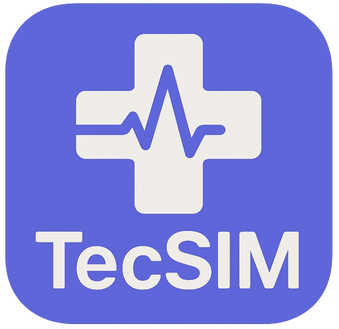
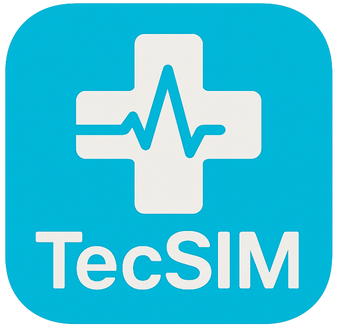
Azul

diff --git a/Mobile/app/screens/Register/Register.jsx b/Mobile/app/screens/Register/Register.jsx
@@ -25,7 +25,7 @@ export default function Login({ navigation }) {
         <Text style={styles.label}>Nome Completo</Text>
         <TextInput
             style={styles.input}
-            placeholder="Antonio Nascimento Barros"
+            placeholder="Ex: Antonio Nascimento Barros"
             placeholderTextColor={"gray"}
             secureTextEntry={!showPassword} // 👈 alterna visibilidade
           />
@@ -108,7 +108,7 @@ export default function Login({ navigation }) {
           <Text style={styles.buttonText}>Criar conta</Text>
         </TouchableOpacity>
 
-        <TouchableOpacity style={styles.subButton} onPress={() => navigation.navigate('Register')}>
+        <TouchableOpacity style={styles.subButton} onPress={() => navigation.replace('Login')}>
           <Text style={styles.text}>Já tem uma conta ?</Text>
           <Text style={styles.EsqueciSenha}>Faça o login</Text>
         </TouchableOpacity>

diff --git a/Mobile/app/screens/AuthWelcome/styles.js b/Mobile/app/screens/AuthWelcome/styles.js
@@ -11,7 +11,7 @@ export const styles = StyleSheet.create({
     justifyContent: 'flex-start',
     alignItems: 'center',
     width: '100%',
-    backgroundColor: '#5f65d9',
+    backgroundColor: '#00acd2',
     opacity: 1,
     zIndex: 20,
   },
@@ -24,6 +24,7 @@ export const styles = StyleSheet.create({
   },
   content: {
     flex: 1,
+    display: "flex",
     alignItems: 'center',
     paddingTop: 20,
   },
@@ -48,14 +49,14 @@ export const styles = StyleSheet.create({
     marginBottom: 20,
   },
   button: {
-    backgroundColor: '#1c1c3c',
+    backgroundColor: '#0097b2',
     paddingVertical: 12,
     paddingHorizontal: 80,
     borderRadius: 20,
     marginTop: 40,
   },
   buttonSecondary: {
-    backgroundColor: '#1c1c3c',
+    backgroundColor: '#0097b2',
     paddingVertical: 12,
     paddingHorizontal: 40,
     borderRadius: 20,

diff --git a/Mobile/app/screens/Login/Login.jsx b/Mobile/app/screens/Login/Login.jsx
@@ -85,7 +85,7 @@ export default function Login({ navigation }) {
           <Text style={styles.buttonText}>Login</Text>
         </TouchableOpacity>
 
-        <TouchableOpacity style={styles.subButton} onPress={() => navigation.navigate('Register')}>
+        <TouchableOpacity style={styles.subButton} onPress={() => navigation.replace('Register')}>
           <Text style={styles.text}>Não Tem uma Conta ?</Text>
           <Text style={styles.EsqueciSenha}>Crie sua Conta</Text>
         </TouchableOpacity>
